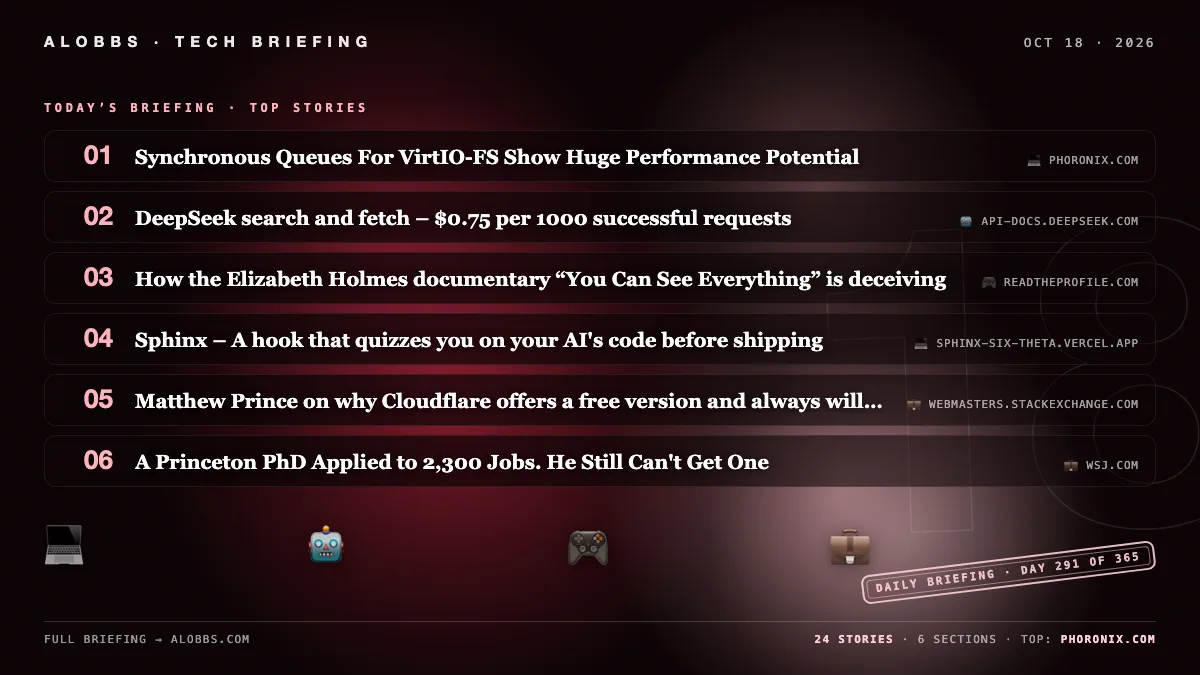
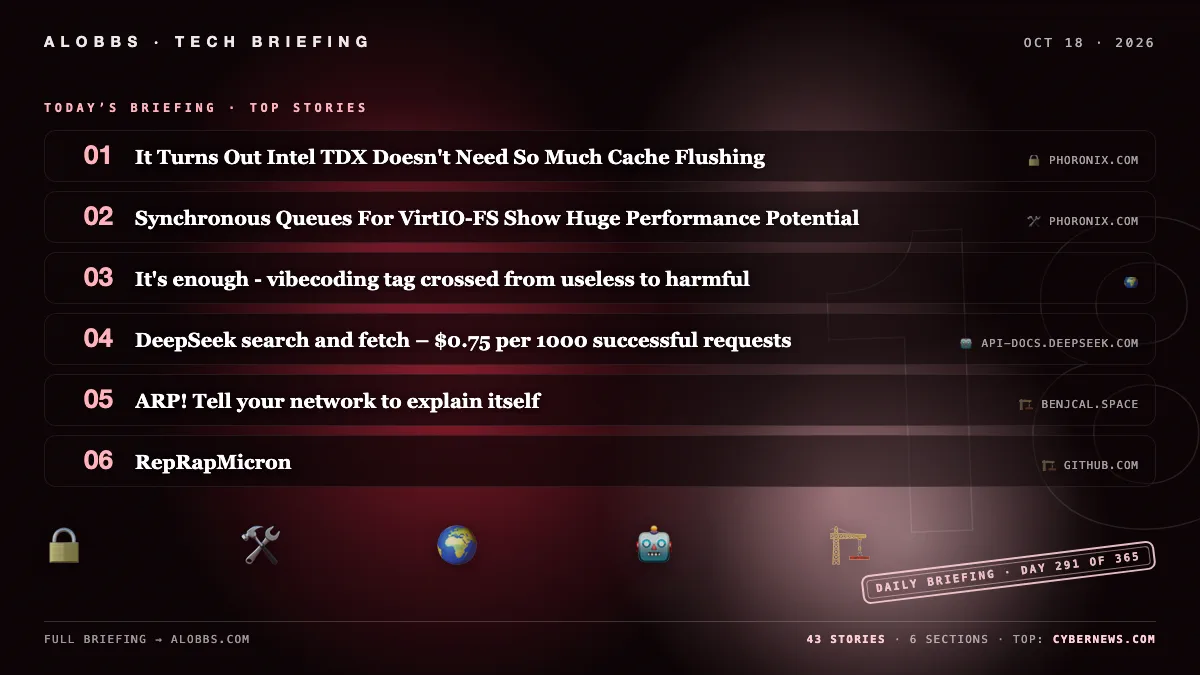
2026-10-18 briefing — 19 new (43 total)

diff --git a/content/post/2026-10-18.md b/content/post/2026-10-18.md
@@ -1,6 +1,6 @@
 ---
 title: "2026-10-18 Briefing"
-date: 2026-10-18 11:50:58.215155
+date: 2026-10-18 15:47:00.484615
 draft: false
 categories: [ "Briefing" ]
 params:
@@ -8,17 +8,30 @@ params:
 cover: "/images/briefings/2026-10-18.webp"
 ---
 
-TEE security is under fire: researchers cite enclave bugs, forged remote attestation, and physical attacks, warning against storing valuable secrets. A Princeton chemical-engineering PhD has applied to 2,300+ jobs without success, while gaming faces 58,000 projected layoffs (2022–2026). A trainer spent two years undercover in right-wing militias, rising to a top state command and documenting law-enforcement ties.
+Gen Z is the first modern generation to score lower than its parents on standardized tests, with declines in attention, memory, literacy and IQ; a neuroscientist urges less screen time and more rigor. Social-media bans for minors are being evaded and may push kids to darker corners. Germany counts 17 million foreign-born residents, led by Poland. Open-source micro-manipulation projects now reach micron precision.
 
 <!--more-->
 
-## 🤖 AI & Automation
+## 🤖 AI & Emerging Tech
 
 ### DeepSeek search and fetch – $0.75 per 1000 successful requests
 
 DeepSeek’s Search and Fetch APIs provide live web access through JSON endpoints at https://api.deepseek.com using Bearer authentication. Search returns ranked web results with options such as count, localization, need_content, and query operators, while Fetch retrieves a single web page as Markdown. The service costs $0.75 per 1,000 successful requests.
 
 - [DeepSeek search and fetch – $0.75 per 1000 successful requests](https://api-docs.deepseek.com/guides/search/) — *api-docs.deepseek.com*
+
+### America's $10T AI infrastructure boom is starting to fray
+
+America’s $10tn AI infrastructure boom is starting to fray
+Save 50% on Standard Digital
+was €540 now €269 for your first year.Save now on essential digital access to trusted FT journalism on any device. Savings based on monthly annualised price, offer ends 28th October.
+Explore more offers.
+Trial
+Then €69 per month. Complete digital access with exclusive insights and industry deep dives on any device. Cancel anytime during your trial.
+Premium Digital
+Complete digital access with exclusive…
+
+- [America's $10T AI infrastructure boom is starting to fray](https://www.ft.com/content/9ea5a37d-15c9-4d5b-94d6-719048c9cd3c) — *ft.com*
 
 ### 500 clocks in one 6.3 MB HTML file by Opus 5.5
 
@@ -34,11 +47,13 @@ Anthropic is consulting law firms on deal negotiation tactics as it develops AI 
 
 ## 🔒 Security & Privacy
 
-### It's time to talk about TEEs
+### The One Question I Can't Stand at Restaurants ("What's your phone number?")
 
-The article surveys attacks on TEEs, including enclave code bugs, remote attestation forgery affecting Intel SGX and AMD SEV, physical/interposition attacks, and liveness failures. It argues these undermine TEE security claims and that remote attestation can be defeated unless verifiers pin to specific PCK certificates. It advises reconsidering TEE deployments and warns against placing valuable secrets in them.
+The One Question I Can’t Stand at Restaurants
+I know why they ask, but I still wish they didn’t need my phone number.
+A man walks into a restaurant. He doesn’t have a reservation, but that shouldn’t be a problem; there are ample seats at the bar, visible just over the hostess’s shoulder. “Of course,” she says, smiling. “We can seat you right away.” As she gathers menus, he absorbs the pleasant hum of a busy dining room, breathes in the tantalizing smells from the semi-open kitchen. Then, the…
 
-- [It's time to talk about TEEs](https://alinush.github.io//tee) — *alinush.github.io*
+- [The One Question I Can't Stand at Restaurants ("What's your phone number?")](https://www.theatlantic.com/culture/2026/10/restaurant-phone-number-question/688926/) — *theatlantic.com*
 
 ### A Mole Infiltrated the Highest Ranks of American Militias (2025)
 
@@ -46,13 +61,30 @@ A wilderness survival trainer spent more than two years undercover in right-wing
 
 - [A Mole Infiltrated the Highest Ranks of American Militias (2025)](https://www.propublica.org/article/ap3-oath-keepers-militia-mole) — *propublica.org*
 
+### Ukrainian drones hit VK data center and Ozon warehouse near St. Petersburg
+
+Ukrainian drones hit VK data center and Ozon warehouse near St. Petersburg
+The attacks also damaged electrical distribution infrastructure in the Leningrad region.
+- Ukrainian drones struck VK’s data center and Ozon’s fulfillment center near St. Petersburg overnight.
+- Ozon confirmed a fire at its Kolpino facility; VK said its services were operating normally.
+- Power infrastructure damage left about 20,000 residents without electricity in the Leningrad region.
+- Russia said it downed 1,015…
+
+- [Ukrainian drones hit VK data center and Ozon warehouse near St. Petersburg](https://cybernews.com/news/ukrainian-drones-hit-vk-data-center-and-ozon-warehouse/) — *cybernews.com*
+
+### It Turns Out Intel TDX Doesn't Need So Much Cache Flushing
+
+Intel TDX had assumed software-driven cache flushing was needed when transitioning memory between MKTME KeyIDs, but finalized TDX hardware handles this itself and Intel’s documentation was outdated. Linux kernel patches are pending to remove the unnecessary cache flushes, simplifying the code. The patch messages do not mention any expected performance impact.
+
+- [It Turns Out Intel TDX Doesn't Need So Much Cache Flushing](https://www.phoronix.com/news/Intel-TDX-Less-Cache-Flushing) — *phoronix.com*
+
 ### Oh no, what happened to my OOHPod? Windows command prompt puts in a surprise appearance
 
 A Windows command prompt unexpectedly appeared on an OOHPod, apparently after someone left a command shell logged in. The incident raises the security question of what to do when a public-facing system is found with an exposed shell.
 
 - [Oh no, what happened to my OOHPod? Windows command prompt puts in a surprise appearance](https://www.theregister.com/offbeat/2026/10/18/oh-no-what-happened-to-my-oohpod-windows-command-prompt-puts-in-a-surprise-appearance/5303109) — *theregister.com*
 
-## 💻 Software & Systems
+## 🛠 Software & Development
 
 ### Parser Combinators
 
@@ -60,17 +92,24 @@ The article explains that parsing converts less structured input such as text in
 
 - [Parser Combinators](https://t3.at/blog/2026-10-17-parser-combinators/) — *t3.at*
 
+### Notes on the Complex Roots of Unity
+
+The article explains roots of unity, starting with real solutions and extending to complex numbers, where n-th roots are calculated using polar coordinates as evenly spaced points on the unit circle. It describes how multiplying these roots corresponds to rotations, how connecting them forms regular polygons, and how reciprocals/conjugates of roots are also roots of unity.
+
+- [Notes on the Complex Roots of Unity](https://eli.thegreenplace.net/2026/notes-on-the-complex-roots-of-unity/) — *eli.thegreenplace.net*
+
 ### Sphinx – A hook that quizzes you on your AI's code before shipping
 
 Sphinx is a free and open-source hook that plugs into existing coding agent workflows. When code is pushed to production, it presents a questionnaire to check whether developers understand how the code they are shipping works.
 
 - [Sphinx – A hook that quizzes you on your AI's code before shipping](https://sphinx-six-theta.vercel.app/) — *sphinx-six-theta.vercel.app*
 
-### OpenPrinter
+### Servo Adds CSS Grid and Speed Improvements
 
-OpenPrinter is an upcoming open-source, modular, repairable inkjet printer built from standard components for users avoiding throwaway hardware. It supports standard sheets or paper rolls, refillable black or color cartridges, desktop or wall use, and works across major platforms via CUPS without proprietary drivers or cartridge DRM. Its electronics, mechanical design files, firmware, and bill of materials will use the CC BY-NC-SA 4.0 license, and campaign updates are available by sign-up.
+Servo 0.6.0 includes 417 commits from August and enables CSS Grid by default, significantly improving website rendering. It also ships new web platform features such as touch-action, animation-composition, color-scheme, and additional text-transform values, plus updates to SpiderMonkey 153 and an optional disk-backed HTTP cache. An experimental “Threadboost” feature is reported to improve Speedometer benchmark scores by 50%.
 
-- [OpenPrinter](https://www.crowdsupply.com/open-tools/openprinter) — *crowdsupply.com*
+- [August in Servo: CSS Grid, text selection, and more](https://servo.org/blog/2026/10/09/august-in-servo/) — *servo.org*
+- [Servo Gets CSS Grid Working, Threadboost Offering Big Speed-Ups](https://www.phoronix.com/news/Servo-0.6-Changes) — *phoronix.com*
 
 ### Omarchy Gets The Web Browser Launching Faster By Avoiding XDG Overhead
 
@@ -78,17 +117,63 @@ Omarchy 4.0.5 has been released as the latest Arch Linux-based distribution buil
 
 - [Omarchy Gets The Web Browser Launching Faster By Avoiding XDG Overhead](https://www.phoronix.com/news/Omarchy-Faster-Web-Browser) — *phoronix.com*
 
-### Servo Gets CSS Grid Working, Threadboost Offering Big Speed-Ups
-
-Servo’s August status report highlights new CSS Grid support, which improves website rendering, along with features such as CSS color-scheme, animation-composition, and additional DOM APIs. The Rust-based browser engine also updated to SpiderMonkey 153, added an optional disk-backed HTTP cache, and introduced an experimental “Threadboost” feature that improves Speedometer benchmark scores by 50%.
-
-- [Servo Gets CSS Grid Working, Threadboost Offering Big Speed-Ups](https://www.phoronix.com/news/Servo-0.6-Changes) — *phoronix.com*
-
 ### Synchronous Queues For VirtIO-FS Show Huge Performance Potential
 
 Sergio López is developing experimental synchronous queues for VirtIO-FS so the host vCPU thread can complete I/O requests before returning to the guest rather than always relying on asynchronous behavior. Early tests show major gains, including cutting libkrunfw build time from 7 minutes 43 seconds to 5 minutes 34 seconds, plus significant random I/O improvements and lower file deletion latency. A pending experimental libkrun pull request would add optional VIRTIO_FS_F_SYNC support.
 
 - [Synchronous Queues For VirtIO-FS Show Huge Performance Potential](https://www.phoronix.com/news/Synchronous-VirtIO-FS) — *phoronix.com*
+
+### Using timers to perform weekly tasks
+
+The article describes automating a weekly review in Emacs by using a weekly timer to set up an idle timer on Sunday mornings, which then updates Org-mode clock tables after the user has been idle for a minute. This avoids manually running an Elisp block to update all clock tables, though the approach assumes the laptop remains on or asleep so the scheduled timer is not skipped.
+
+- [Using timers to perform weekly tasks](https://mbork.pl/2026-10-17_Using_timers_to_perform_weekly_tasks) — *mbork.pl*
+
+### A New Way to Think About Borrow Checking (In Reverse)
+
+The article describes Valen's borrow checker, which performs its memory-safety checking phase backward—walking functions from the last statement to the top—rather than forward like typical borrow checkers. It explains this unconventional approach and argues it offers practical benefits related to convenience, loops, and speed, while also supporting optional shared-xor-mutable semantics and memory-safe mutable aliasing.
+
+- [A New Way to Think About Borrow Checking (In Reverse)](https://verdagon.dev/blog/reverse-borrow-checking) — *verdagon.dev*
+
+### Algorithmic Sound Design with L-Systems and Granular Synthesis
+
+The article presents EvoGrain, a more ambitious system for generating audio using L-systems and granular synthesis, revisiting the author’s earlier work on the topic. It provides a detailed walkthrough of EvoGrain’s construction, includes audio samples, and notes that the source code is available on GitHub. The author also discusses inspirations such as Iamus, a rule-based algorithmic composition project using L-systems and evolutionary algorithms.
+
+- [Algorithmic Sound Design with L-Systems and Granular Synthesis](https://nathanho.me/posts/evograin/) — *nathanho.me*
+
+## 🏗 Hardware & Infrastructure
+
+### RepRapMicron
+
+The RepRapMicron project aims to bring RepRap-style open fabrication to the micron scale using a precise, compact CNC-like system. Its current recommended PIKA V0.02 hardware provides repeatable positioning of about 1 μm and reliable 10 μm or better accuracy over an approximately 8 mm cubic volume. Using fine probes, it has deposited UV resin droplets as small as 4 μm and cured 9 μm resin lines.
+
+- [RepRapMicron](https://github.com/VikOlliver/RepRapMicron/wiki) — *github.com*
+
+### Open MicroManipulator – A sub-micrometer 3D motion control plattform
+
+# Open Micro-Manipulator
+
+This project contains an open source low-cost, easy-to-build motorized **XYZ Micro-Manipulator** motion control platform achieving submicron precision.
+It's designed for applications such as optical alignment, probing electronic components, and microscopy.
+
+Check out the YouTube video for more information about the device and how it is built:<br>
+[An Open Source Motorized XYZ Micro-Manipulator - Affordable sub µm Motion Control](https://youtu.be/MgQbPdiuUTw)
+
+<div…
+
+- [Open MicroManipulator – A sub-micrometer 3D motion control plattform](https://github.com/0x23/MicroManipulatorStepper) — *github.com*
+
+### OpenPrinter
+
+OpenPrinter is an upcoming open-source, modular, repairable inkjet printer built from standard components for users avoiding throwaway hardware. It supports standard sheets or paper rolls, refillable black or color cartridges, desktop or wall use, and works across major platforms via CUPS without proprietary drivers or cartridge DRM. Its electronics, mechanical design files, firmware, and bill of materials will use the CC BY-NC-SA 4.0 license, and campaign updates are available by sign-up.
+
+- [OpenPrinter](https://www.crowdsupply.com/open-tools/openprinter) — *crowdsupply.com*
+
+### RegLayer: 47+ US data center projects delayed/withdrawn/blocked in 2026; Bernstein: ~35% credible
+
+In 2026, more than 47 large US data center projects were delayed, withdrawn, or blocked, according to RegLayer. Bernstein estimates that only about 35% of the planned US data center pipeline is credible, as ambitious technology bets run into the hard economics of the physical world.
+
+- [RegLayer: 47+ US data center projects delayed/withdrawn/blocked in 2026; Bernstein: ~35% credible](https://www.ft.com/content/9ea5a37d-15c9-4d5b-94d6-719048c9cd3c) — *ft.com*
 
 ### Interview: Nadella on RTX Spark Surface Laptop Ultra and safer Windows for AI agents
 
@@ -96,41 +181,52 @@ In an interview, Microsoft CEO Satya Nadella discussed the new Nvidia-powered Su
 
 - [Interview: Nadella on RTX Spark Surface Laptop Ultra and safer Windows for AI agents](https://thenewthings.com/p/microsoft-ceo-on-rogue-ai-agents-super-laptops-and-clippy) — *thenewthings.com*
 
-## 🎮 Gaming & Media
+### High performance policy routed IPsec mesh SD-WAN
 
-### The game industry is broken – can we fix it?
+ranet3 is an open-source high-performance policy-routed IPsec mesh SD-WAN built on standard IKEv2, ESP-in-UDP, Babel, and SRv6, with interoperability tested against strongSwan, BIRD, and Linux. It uses Babel RTT metrics to route around slower or lossy links and SRv6 source/destination-prefix policies to steer traffic through specified waypoints and exits. Benchmarks compare its userspace ESP/AES-256-GCM dataplane with wireguard-go, kernel WireGuard, and kernel IPsec across throughput, CPU cost, and p99 latency.
 
-The video game industry is facing a severe downturn, with projections of more than 58,000 jobs lost from 2022 to 2026, hundreds of studio closures, runaway budgets and schedules, and rising console prices despite only modest revenue growth. Industry experts say layoffs are concentrated in Western hubs such as the UK, Europe, and North America—especially California—and discuss possible remedies including Japan’s leaner teams, high staff retention, and lower executive pay.
+- [High performance policy routed IPsec mesh SD-WAN](https://ranet3.com/) — *ranet3.com*
 
-- [The game industry is broken – can we fix it?](https://knowledge.edge-online.com/p/the-game-industry-is-broken-can-we-fix-it-tim-sweeney-edge-crash) — *knowledge.edge-online.com*
+### ARP! Tell your network to explain itself
 
-### How the Elizabeth Holmes documentary “You Can See Everything” is deceiving
+The article explains how ARP lets devices on a local network discover the MAC address associated with an IP address by broadcasting a request. It highlights the tool arp-scan for listing network devices with their IP, MAC address, and manufacturer, and notes risks such as ARP spoofing and broadcast storms.
 
-The article recounts the author’s reaction to the Elizabeth Holmes documentary *You Can See Everything*, arguing that its brilliance lies in manipulating viewers’ perceptions in real time through framing and editing. It notes that Holmes was acquitted of patient-fraud charges but imprisoned for knowingly misleading investors, using the film to illustrate how emotional impressions shape beliefs more than facts do.
+- [ARP! Tell your network to explain itself](https://benjcal.space/blog/arp-tell-your-network-to-explain-itself/) — *benjcal.space*
 
-- [How the Elizabeth Holmes documentary “You Can See Everything” is deceiving](https://www.readtheprofile.com/p/elizabeth-holmes-documentary-you-can-see-everything) — *readtheprofile.com*
+### Un-hanging the HP Envy 17-DA0013dx for OpenBSD
 
-### Interview: Apple App Store VP Carson Oliver on gaming vision, Arcade, indie tools
+An OpenBSD user trying to install the OS on an HP Envy 17-DA0013dx encountered a boot hang during device probing, traced via a debug kernel to a panic indicating “cpu at apic id 0 already attached.” After suspecting a defective ACPI/AML implementation, updating the laptop’s 2024 BIOS to a 2026 version resolved the issue, allowing OpenBSD to boot from USB. The user then swapped in a 4TB OpenBSD NVMe drive and set the Windows 11 drive aside for future BIOS updates.
 
-In his first interview as Apple’s new head of App Store Worldwide, Carson Oliver said gaming has always been central to the App Store and that Apple aims to let indie titles compete alongside major franchises. He cited continued investment in Apple Arcade, developer tools, and hardware technologies, with initiatives like Indie Games Week signaling a broader push to make the App Store a home for premium indie games.
+- [Un-hanging the HP Envy 17-DA0013dx for OpenBSD](https://darwinsys.com/blog/20260925-hp-envy-17/) — *darwinsys.com*
 
-- [Interview: Apple App Store VP Carson Oliver on gaming vision, Arcade, indie tools](https://www.polygon.com/apple-indie-games-week-interview/) — *polygon.com*
+## 🌍 Society & Culture
 
-## 🔬 Science & Research
+### Gen Z Is the First Generation Dumber Than Their Parents
 
-### Notes on the Complex Roots of Unity
+Neuroscientist Jared Cooney Horvath says Gen Z is the first modern generation to score lower than the previous one on standardized academic tests, with declines across attention, memory, literacy, numeracy, executive function, and general IQ. He attributes the trend to heavy screen exposure and technology-focused schooling that reduce sustained attention and depth of learning. Horvath recommends dialing back screens in schools and restoring rigor and focused study.
 
-The article explains roots of unity, starting with real solutions and extending to complex numbers, where n-th roots are calculated using polar coordinates as evenly spaced points on the unit circle. It describes how multiplying these roots corresponds to rotations, how connecting them forms regular polygons, and how reciprocals/conjugates of roots are also roots of unity.
+- [Gen Z Is the First Generation Dumber Than Their Parents](https://www.vice.com/en/article/gen-z-is-the-first-generation-dumber-than-their-parents-neuroscientist-claims/) — *vice.com*
 
-- [Notes on the Complex Roots of Unity](https://eli.thegreenplace.net/2026/notes-on-the-complex-roots-of-unity/) — *eli.thegreenplace.net*
+### Germany's 17M Immigrants: Where They Come From
 
-### Dogs Seem to Agree with Humans That 'Bouba' Is Round and 'Kiki' Is Spiky
+Germany’s 17 Million Immigrants: Where They Come From
+See more visualizations like this on the Voronoi app.
+Save to Inbox
+Where Germany’s 17 Million Immigrants Were Born
+Key Takeaways:
+- About 17 million people living in Germany were born abroad, compared with 4.3 million German-born people living overseas.
+- Poland is the largest birthplace among Germany’s foreign-born population, while the U.S. is the leading destination for German-born emigrants.
+- Germany has expanded skilled-worker…
 
-A new study found that domestic dogs, like humans, tend to associate the made-up sound “Bouba” with rounded shapes and “Kiki” with spiky shapes. In two experiments with 70 dogs, researchers tracked the animals’ gaze and found they looked more at rounded shapes during “Bouba” and spiky shapes during “Kiki,” even when owners wore headphones to prevent cues. The findings suggest dogs may share a cross-sensory bias linking sounds and shapes, though more research is needed.
+- [Germany's 17M Immigrants: Where They Come From](https://www.visualcapitalist.com/cp/where-germanys-immigrants-come-from/) — *visualcapitalist.com*
 
-- [Dogs Seem to Agree with Humans That 'Bouba' Is Round and 'Kiki' Is Spiky](https://www.sciencealert.com/dogs-seem-to-agree-with-humans-that-bouba-is-round-and-kiki-is-spiky) — *sciencealert.com*
+### Kids are outsmarting social media bans. That's not a problem we need to solve
 
-## 💼 Business & Industry
+Kids are outsmarting social media bans. That’s not a problem we need to solve.
+Age gates can be staggeringly counterproductive, pushing kids to darker corners of the web. Closing loopholes will only make things worse.
+Social media bans are stacking up. In July, France joined Australia in restricting minors from accessing social media—barring children under 15 from major platforms, before the ban was blocked by the country’s top court on human rights grounds. The UK aims to forbid kids under 16…
+
+- [Kids are outsmarting social media bans. That's not a problem we need to solve](https://www.technologyreview.com/2026/10/16/1146834/kids-are-outsmarting-social-media-bans-thats-not-a-problem-we-need-to-solve/) — *technologyreview.com*
 
 ### A Princeton PhD Applied to 2,300 Jobs. He Still Can't Get One
 
@@ -138,17 +234,79 @@ Jack Weis, a 2024 Princeton chemical engineering Ph.D. graduate, has applied to 
 
 - [A Princeton PhD Applied to 2,300 Jobs. He Still Can't Get One](https://www.wsj.com/lifestyle/careers/labor-market-freeze-phd-graduate-f8e17d7c) — *wsj.com*
 
+### Dogs Seem to Agree with Humans That 'Bouba' Is Round and 'Kiki' Is Spiky
+
+A new study found that domestic dogs, like humans, tend to associate the made-up sound “Bouba” with rounded shapes and “Kiki” with spiky shapes. In two experiments with 70 dogs, researchers tracked the animals’ gaze and found they looked more at rounded shapes during “Bouba” and spiky shapes during “Kiki,” even when owners wore headphones to prevent cues. The findings suggest dogs may share a cross-sensory bias linking sounds and shapes, though more research is needed.
+
+- [Dogs Seem to Agree with Humans That 'Bouba' Is Round and 'Kiki' Is Spiky](https://www.sciencealert.com/dogs-seem-to-agree-with-humans-that-bouba-is-round-and-kiki-is-spiky) — *sciencealert.com*
+
+### It's enough - vibecoding tag crossed from useless to harmful
+
+The author argues that the "vibecoding" tag has become useless and now harmful due to overbroad tagging that filters out valuable technical content and drives away community members. While supporting filtering of LLM-generated or LLM-centric posts, they say the current tag provides no signal and benefits no one. They call for the tag to be split or eliminated.
+
+- [It's enough - vibecoding tag crossed from useless to harmful]()
+
+## 💰 Business & Entertainment
+
+### The Zelda timeline to catch up before the Ocarina of Time remake
+
+Ahead of the Ocarina of Time remake, releasing in 17 days, the author built a Zelda timeline to catch up on the story. Using Nintendo’s official Hyrule Historia and chronicle timeline, the project visualizes Ocarina’s three branching eras—depending on whether Link wins or loses—before the threads reunite much later with Breath of the Wild. The author says Claude provided significant help in creating the visualization.
+
+- [The Zelda timeline to catch up before the Ocarina of Time remake](https://legendofhyrule.com/) — *legendofhyrule.com*
+
+### The game industry is broken – can we fix it?
+
+The video game industry is facing a severe downturn, with projections of more than 58,000 jobs lost from 2022 to 2026, hundreds of studio closures, runaway budgets and schedules, and rising console prices despite only modest revenue growth. Industry experts say layoffs are concentrated in Western hubs such as the UK, Europe, and North America—especially California—and discuss possible remedies including Japan’s leaner teams, high staff retention, and lower executive pay.
+
+- [The game industry is broken – can we fix it?](https://knowledge.edge-online.com/p/the-game-industry-is-broken-can-we-fix-it-tim-sweeney-edge-crash) — *knowledge.edge-online.com*
+
 ### Matthew Prince on why Cloudflare offers a free version and always will (2016)
 
 The supplied article text contains no substantive news content; it only displays a notice asking readers to enable JavaScript and cookies. Therefore, the article’s details and argument cannot be factually summarized from the provided material.
 
 - [Matthew Prince on why Cloudflare offers a free version and always will (2016)](https://webmasters.stackexchange.com/questions/88659/how-can-cloudflare-offer-a-free-cdn-with-unlimited-bandwidth/88685#88685) — *webmasters.stackexchange.com*
 
-### RegLayer: 47+ US data center projects delayed/withdrawn/blocked in 2026; Bernstein: ~35% credible
+### How the Elizabeth Holmes documentary “You Can See Everything” is deceiving
 
-In 2026, more than 47 large US data center projects were delayed, withdrawn, or blocked, according to RegLayer. Bernstein estimates that only about 35% of the planned US data center pipeline is credible, as ambitious technology bets run into the hard economics of the physical world.
+The article recounts the author’s reaction to the Elizabeth Holmes documentary *You Can See Everything*, arguing that its brilliance lies in manipulating viewers’ perceptions in real time through framing and editing. It notes that Holmes was acquitted of patient-fraud charges but imprisoned for knowingly misleading investors, using the film to illustrate how emotional impressions shape beliefs more than facts do.
 
-- [RegLayer: 47+ US data center projects delayed/withdrawn/blocked in 2026; Bernstein: ~35% credible](https://www.ft.com/content/9ea5a37d-15c9-4d5b-94d6-719048c9cd3c) — *ft.com*
+- [How the Elizabeth Holmes documentary “You Can See Everything” is deceiving](https://www.readtheprofile.com/p/elizabeth-holmes-documentary-you-can-see-everything) — *readtheprofile.com*
+
+### How to Watch Nottingham Forest vs Arsenal for Free (October 18, 2026)
+
+How to Watch Nottingham Forest vs Arsenal for Free (October 18, 2026)
+Our in-house cybersecurity experts and journalists, renowned for major reports like The Mother of All Breaches, conduct transparent, unbiased VPN testing and in-depth analysis.
+With 750+ articles crafted based on real-world research, we empower readers to make informed purchasing decisions through first-hand expertise.
+Learn more-
+Match information: Nottingham Forest vs Arsenal takes place on Sunday, October 18, 2026, at the…
+
+- [How to Watch Nottingham Forest vs Arsenal for Free (October 18, 2026)](https://cybernews.com/stream-online/how-to-watch-nottingham-forest-vs-arsenal-for-free-october-18/) — *cybernews.com*
+
+### How to Watch Leeds United vs Manchester United for Free from Anywhere
+
+How to Watch Leeds United vs Manchester United for Free from Anywhere
+Our in-house cybersecurity experts and journalists, renowned for major reports like The Mother of All Breaches, conduct transparent, unbiased VPN testing and in-depth analysis.
+With 750+ articles crafted based on real-world research, we empower readers to make informed purchasing decisions through first-hand expertise.
+Learn more-
+Match information: Leeds United vs Manchester United is on Sunday, October 18, 2026, at Elland…
+
+- [How to Watch Leeds United vs Manchester United for Free from Anywhere](https://cybernews.com/stream-online/how-to-watch-leeds-united-vs-manchester-united-for-free-october-18/) — *cybernews.com*
+
+### How to Watch Houston Texans vs Jacksonville Jaguars for Free (October 18, 2026)
+
+How to Watch Houston Texans vs Jacksonville Jaguars for Free (October 18, 2026)
+Our in-house cybersecurity experts and journalists, renowned for major reports like The Mother of All Breaches, conduct transparent, unbiased VPN testing and in-depth analysis.
+With 750+ articles crafted based on real-world research, we empower readers to make informed purchasing decisions through first-hand expertise.
+Learn more-
+Game information: Houston Texans vs Jacksonville Jaguars is a Week 6 NFL…
+
+- [How to Watch Houston Texans vs Jacksonville Jaguars for Free (October 18, 2026)](https://cybernews.com/stream-online/how-to-watch-nfl-houston-texans-vs-jacksonville-jaguars-for-free-october-18/) — *cybernews.com*
+
+### Interview: Apple App Store VP Carson Oliver on gaming vision, Arcade, indie tools
+
+In his first interview as Apple’s new head of App Store Worldwide, Carson Oliver said gaming has always been central to the App Store and that Apple aims to let indie titles compete alongside major franchises. He cited continued investment in Apple Arcade, developer tools, and hardware technologies, with initiatives like Indie Games Week signaling a broader push to make the App Store a home for premium indie games.
+
+- [Interview: Apple App Store VP Carson Oliver on gaming vision, Arcade, indie tools](https://www.polygon.com/apple-indie-games-week-interview/) — *polygon.com*
 
 ### Holyvolt raises $45M at $245M valuation for AI battery materials tools
 
